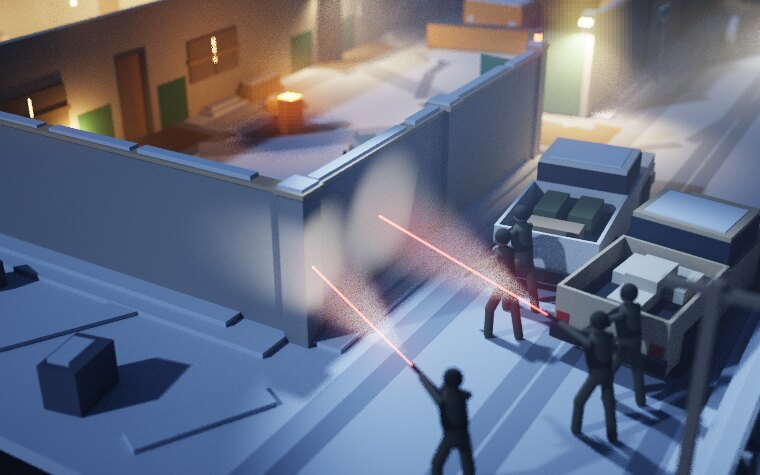
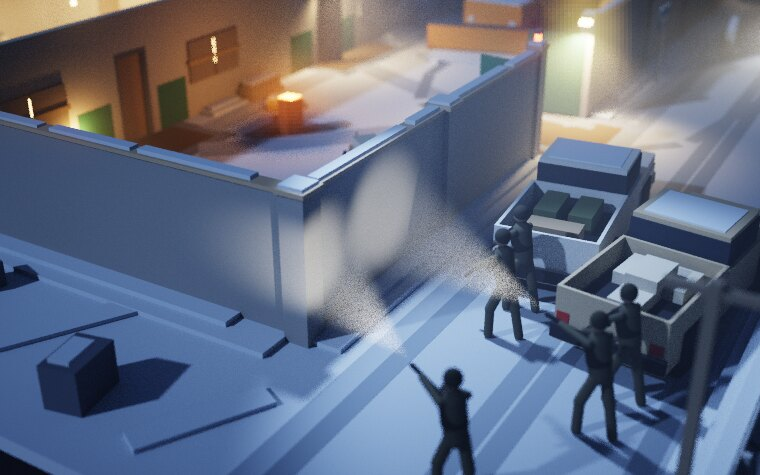
The tunnel station's menu picture without gun lasers, and its write-up on the newest join

Changed region(s): [[0.4842, 0.4421, 0.7263, 0.6779], [0.3934, 0.56, 0.5447, 0.7663]]

diff --git a/docs/agents/missions.md b/docs/agents/missions.md
@@ -227,7 +227,10 @@ title may now live in another file of this folder: `grep -l '<title>' docs/agent
     script's `direct` walk taken off its men sent them round the whole halt (27.5 s); here the road is the one way from the roadblock to the gate, so with
     `direct` off they walk the same road (5.6 s) and that run now has the same eight-second bar. The run that must be long is a third, the roadblock's
     men kept where they stand: 99 s on both stands. So nothing on this floor fails when `direct` stops meaning anything: that is a gap this level opened.
-    ON THE JOIN: the scripted player ends all fifteen steps on seeds 1 to 7 on the page's stand.
+    ON THE JOIN: the scripted player ends all fifteen steps on seeds 1 to 7 on the page's stand, and on seeds 1 to 5 again on the build that carries
+    the flinch at close fire (130 to 137 s of play). The real page was played on this floor twice on the software adapter before the join (all fifteen
+    steps by a hand's keys, no red line, no page error). NOBODY HAS seen it on a GPU; the red of the beacons is seen from the lights going out until the
+    goggles come on, and again on the walk back, where the frame lifts the goggles.
     MEASURED: the scripted player ends all fifteen steps on the page's stand on seeds 1 to 7 in 129 to 140 s of play; the first man with a
     torch is hit two to three and a half seconds after the bunkhouse says it is coming, by the lorry's tail; the second often stays behind the lorry and is
     the last room's fight. `PORT=<port> node tools/qa/tut-page.cjs` (software adapter, a hand's own keys and mouse) played all fifteen steps to the
